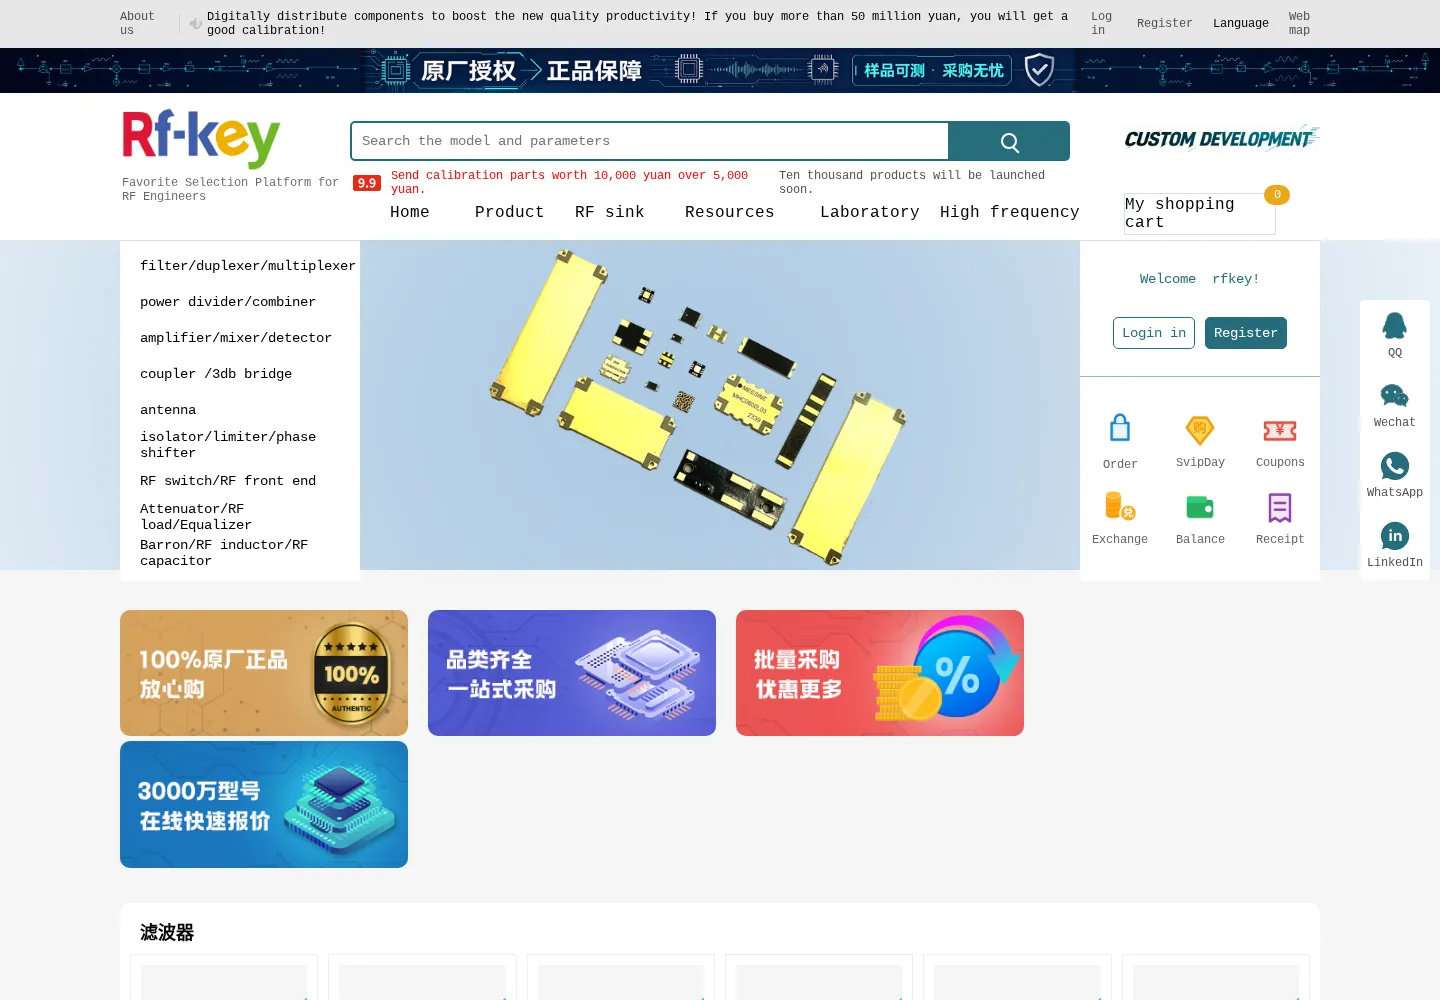
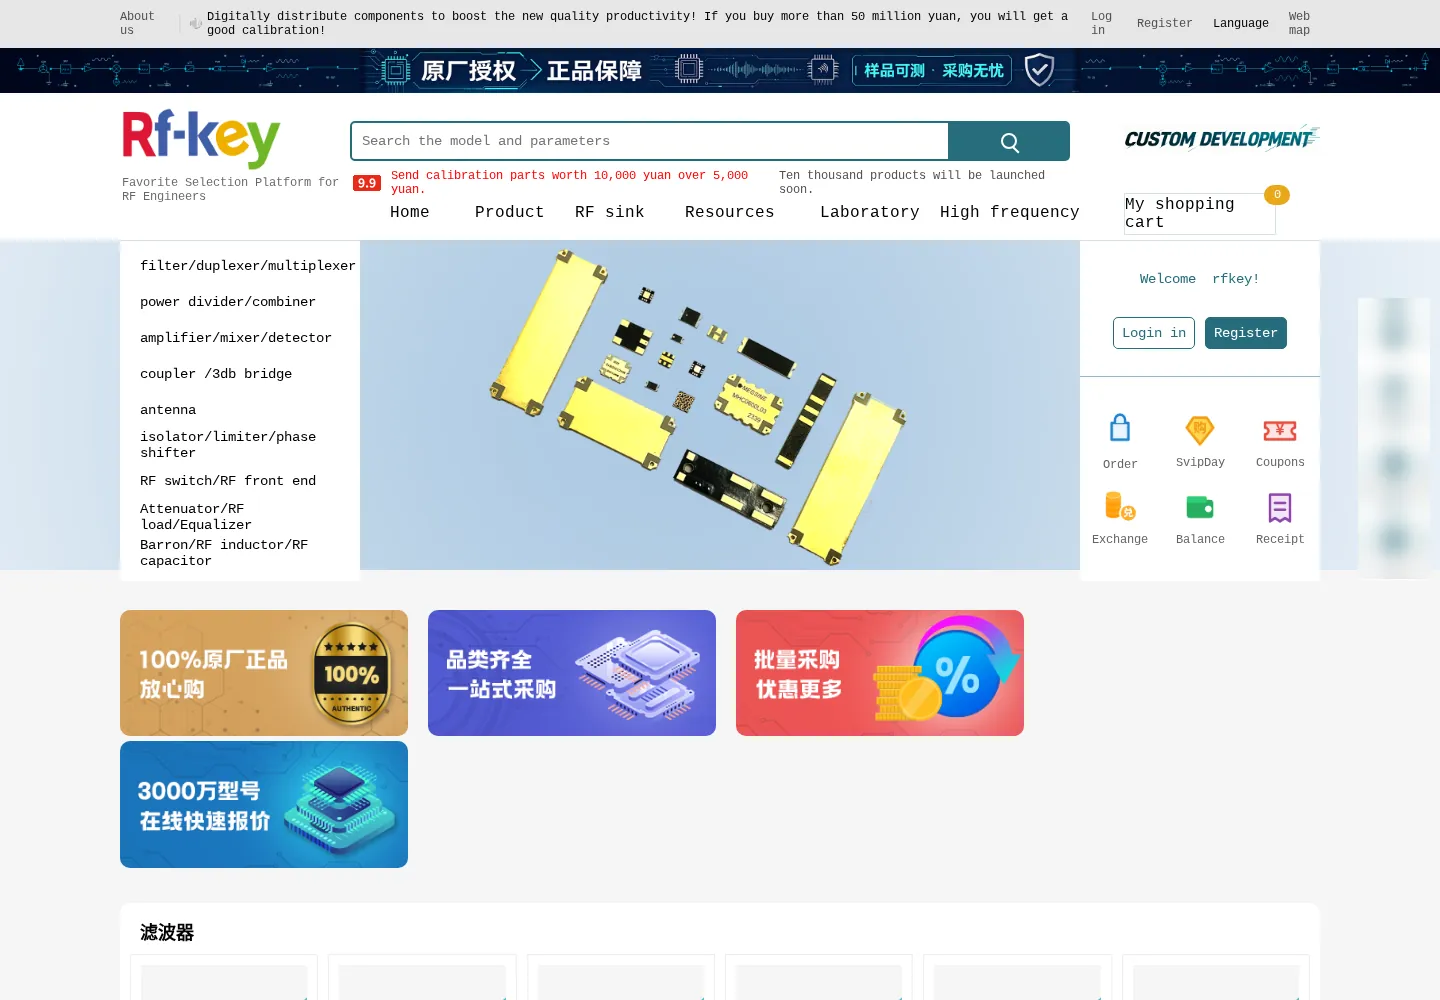
RFKEY case: add 实测结论与建议 (5 prioritized items, verified BWH plan refs), summary advice line; privacy redaction: mask origin IP, drop backend URLs/query params, SKU and POST target; pixelate prices/stock/views, login fields, customer-service contact widgets in all screenshots

Changed region(s): [[0.9375, 0.279, 1.0, 0.589]]

diff --git a/layouts/_partials/extend_head.html b/layouts/_partials/extend_head.html
@@ -393,3 +393,22 @@ sup.tbc,sup.tbc a{color:var(--info)!important}.tbc-note{color:var(--info)}
 .case-hl-img img{height:250px!important;width:100%;aspect-ratio:auto;object-fit:cover;object-position:top left}
 @media(max-width:720px){.post-content .case-facts{grid-template-columns:1fr}.case-hl-img img{height:180px!important}}
 </style>
+<style>
+/* ===== 实测建议 ===== */
+.adv{background:var(--theme);border:1px solid var(--warm-100);border-radius:14px;padding:16px 20px 6px;margin:0 0 14px;box-shadow:var(--card-sh)}
+.adv-head{display:flex;align-items:center;gap:12px;margin-bottom:8px}
+.post-content .adv-head h3{margin:0;font-size:17px;line-height:1.45;color:var(--ink);flex:1}
+.adv-n{flex:none;width:30px;height:30px;border-radius:9px;background:var(--brand);color:#fff;font-weight:800;display:flex;align-items:center;justify-content:center;font-size:15px}
+.adv-p{flex:none;font-size:12px;font-weight:700;padding:2px 10px;border-radius:999px;white-space:nowrap}
+.adv-high{border-left:4px solid var(--brand)}
+.adv-high .adv-p{background:var(--amber);color:#3D2600}
+.adv-mid .adv-p{background:rgba(245,166,35,.14);color:var(--amber-ink);border:1px solid rgba(245,166,35,.45)}
+.adv-info .adv-n{background:var(--info)}
+.adv-info .adv-p{background:rgba(47,93,124,.08);color:var(--info);border:1px solid rgba(47,93,124,.3)}
+.post-content .adv-body p,.post-content .adv-body li{font-size:15px;line-height:1.75;margin:0 0 10px}
+.post-content .adv-body ul{margin:0 0 10px}
+.adv-body .go-btn{display:inline-block;margin:0 0 12px}
+.case-adv b{background:var(--brand)!important;color:#fff!important}
+.case-adv a{color:var(--btn);white-space:nowrap}
+@media(max-width:720px){.adv{padding:14px 14px 4px}.adv-head{flex-wrap:wrap;gap:8px}.post-content .adv-head h3{flex-basis:calc(100% - 40px);font-size:16px}.adv-p{margin-left:38px}}
+</style>

diff --git a/layouts/_shortcodes/advice.html b/layouts/_shortcodes/advice.html
@@ -1,0 +1,6 @@
+{{- $p := .Get "prio" -}}
+{{- $lbl := dict "high" "优先级：高" "mid" "优先级：中" "info" "参考" -}}
+<div class="adv adv-{{ $p }}">
+  <div class="adv-head"><span class="adv-n">{{ .Get "n" }}</span><h3>{{ .Get "title" }}</h3><span class="adv-p">{{ index $lbl $p }}</span></div>
+  <div class="adv-body">{{ .Inner | .Page.RenderString (dict "display" "block") }}</div>
+</div>

diff --git a/layouts/_shortcodes/casesummary.html b/layouts/_shortcodes/casesummary.html
@@ -9,5 +9,6 @@
   </dl>
   <div class="case-metrics">{{ range .metrics }}<div><b>{{ .v }}</b><span>{{ .k }}</span></div>{{ end }}</div>
   <p class="case-verdict"><b>结论</b>{{ .verdict }}</p>
+  {{- with .advice }}<p class="case-verdict case-adv"><b>建议</b>{{ . }} <a href="#实测结论与建议">看详细建议 ↓</a></p>{{ end }}
 </div>
 {{- end -}}

diff --git a/content/cases/rfkey-overseas-check-2026-11.md b/content/cases/rfkey-overseas-check-2026-11.md
@@ -19,6 +19,7 @@ case:
   region: "洛杉矶 USCA_2（美国加州）"
   region_short: "洛杉矶 USCA_2"
   time: "2026-11-02 11:14:55–11:18:27（北京时间）"
+  advice: "先给首页轮播图和产品图“减重”（这是完整加载慢的主因，单靠升级服务器解决不了），再把 HTTP 统一 301 到 HTTPS、校对英文页；业务和访问量大时再考虑更高配置或大陆优化线路。"
   verdict: "5 个公开页面在本次美国加州测试点均可正常打开并显示实际内容；主要可优化项是首页冷加载的图片拖尾、英文页金额与图片文字、HTTP 未统一跳转 HTTPS。"
   metrics:
     - v: "15/15"
@@ -39,10 +40,10 @@ case:
 
 ## 体检发现与优化建议
 
-- **公开页面可从本次境外测试机访问，桌面和手机仿真均显示实际内容**：15 次 curl 请求全部状态 200、退出码 0、TLS 证书校验成功；25 次浏览器主文档状态均为 200。主测记录的 1,242 条浏览器响应均为 200，观测窗口内未记录网络失败、HTTP 错误、控制台错误或脚本异常。商品详情实际展示 MBF1221D33 及价格、库存和资料入口；登录页展示登录与验证组件。另有 1 次加载等待超时，已在下方单列，不能概括为零异常。
+- **公开页面可从本次境外测试机访问，桌面和手机仿真均显示实际内容**：15 次 curl 请求全部状态 200、退出码 0、TLS 证书校验成功；25 次浏览器主文档状态均为 200。主测记录的 1,242 条浏览器响应均为 200，观测窗口内未记录网络失败、HTTP 错误、控制台错误或脚本异常。商品详情页实际展示了型号、价格、库存和资料入口；登录页展示登录与验证组件。另有 1 次加载等待超时，已在下方单列，不能概括为零异常。
 - **优先优化首页冷加载：主要内容先出现，但完整资源加载存在明显拖尾**：中文首页桌面冷加载 LCP 候选中位数为 2.156 秒，范围 2.044–5.204 秒；load 事件中位数为 12.171 秒，范围 10.110–19.098 秒。第 3 次冷加载触发 15 秒 load 等待超时，随后采样已为 complete，loadEventEnd 为 19.098 秒。热加载 LCP 中位数为 1.004 秒，load 中位数为 1.289 秒；每次热加载记录到 70 条磁盘缓存响应。冷加载可计量资源传输体积约 14.374 MB，跨域缺少时序授权的资源可能未被完整计量。补测发现轮播图 3.png 约 1.865 MB、2.png 约 1.251 MB，图片是值得优先优化的具体目标；单次补测不能证明全部延迟均由图片体积造成。**建议**：先压缩和按展示尺寸提供轮播图、产品图，调整非首屏资源加载，再用相同境外测试机和相同样本复测。不要把 load 时间描述成用户在此之前完全看不到页面。
 - **英文页可以打开，但需要校对金额并补齐图片内文字**：英文首页存在英文导航和正文，确认语言切换有效。中文首页顶部促销门槛为 5,000 元，英文顶部出现“50 million yuan”，而同一英文页另一处仍写 5,000 元，金额明显不一致。英文页面截图中的宣传横幅、四张宣传卡片及部分分区标题仍为中文；本次已采样页面的 html language 属性为空。**建议**：由商家确认促销原意后修正金额，校对英文文案及图片内文字，并正确设置页面语言属性。当前结果不能代表全站翻译已完成。
-- **HTTP 入口仍停留在 HTTP，需要统一跳转 HTTPS**：补充检查中，https://www.rfkey.cn/ 返回 302 并跳转 HTTPS 的 main.php，证书验证成功；http://www.rfkey.cn/ 跟随 1 次 302 后最终仍为 http://www.rfkey.cn/main.php，返回 200。当前只能确认所测 HTTP 入口没有强制升级 HTTPS，未执行账号登录或密码提交。**建议**：在源站或接入层配置 HTTP 到 HTTPS 的301 重定向，并检查站内链接、静态资源和登录入口。
+- **HTTP 入口仍停留在 HTTP，需要统一跳转 HTTPS**：补充检查中，HTTPS 首页返回 302 并跳转到 HTTPS 页面，证书验证成功；HTTP 首页跟随 1 次 302 后最终仍停留在 HTTP 页面，返回 200。当前只能确认所测 HTTP 入口没有强制升级 HTTPS，未执行账号登录或密码提交。**建议**：在源站或接入层配置 HTTP 到 HTTPS 的301 重定向，并检查站内链接、静态资源和登录入口。
 - **图片补查未发现真实地址加载失败，空地址元素不应误报为坏图**：对中文首页、分类页、详情页、英文首页分别进行滚动补查，均到达页面底部；有实际地址的图片加载失败数和待完成数均为 0。四页分别存在 17、45、7、17 个没有实际 src/currentSrc 的图片元素，滚动前后未变。这些空地址元素并未形成失败的图片网络请求；是否属于占位、装饰或缺失内容，需要结合源站模板逐项判断。原始主测中的 images.broken 包含这些元素，报告保留原始数据并以专项诊断纠正判读。
 
 ## 测试时间与测试点
@@ -77,10 +78,10 @@ case:
 
 | 页面 | 地址 | curl 次数 | 浏览器次数 |
 | --- | --- | --- | --- |
-| 中文首页 | www.rfkey.cn/main.php?language=chinese | 3 | 7 |
-| 商品分类1 | 分类页 index=1（中文） | 3 | 7 |
-| 商品详情175 | 商品详情 index=175（中文） | 3 | 7 |
-| 英文首页 | www.rfkey.cn/main.php?language=english | 3 | 2 |
+| 中文首页 | 网站首页（中文） | 3 | 7 |
+| 商品分类页 | 一个商品分类列表页（中文） | 3 | 7 |
+| 商品详情页 | 一个商品详情页（中文） | 3 | 7 |
+| 英文首页 | 网站首页（英文） | 3 | 2 |
 | 登录入口展示 | 用户登录页（中文） | 3 | 2 |
 
 ## HTML 传输结果
@@ -89,11 +90,11 @@ case:
 
 | 页面 | 样本 | HTTP 状态 | 首字节 | 下载完成 | 源站 IP | TLS 校验值 |
 | --- | --- | --- | --- | --- | --- | --- |
-| 中文首页 | 3 | 200 × 3 | 0.661（0.638–0.742） | 0.991（0.951–1.107） | 114.116.235.17 | 0 × 3 |
-| 商品分类1 | 3 | 200 × 3 | 0.732（0.654–0.735） | 1.146（1.135–1.280） | 114.116.235.17 | 0 × 3 |
-| 商品详情175 | 3 | 200 × 3 | 0.673（0.668–0.741） | 1.041（0.997–1.104） | 114.116.235.17 | 0 × 3 |
-| 英文首页 | 3 | 200 × 3 | 0.742（0.636–0.745） | 1.111（0.948–1.140） | 114.116.235.17 | 0 × 3 |
-| 登录入口展示 | 3 | 200 × 3 | 0.661（0.656–0.665） | 0.827（0.818–0.831） | 114.116.235.17 | 0 × 3 |
+| 中文首页 | 3 | 200 × 3 | 0.661（0.638–0.742） | 0.991（0.951–1.107） | 114.116.x.x | 0 × 3 |
+| 商品分类页 | 3 | 200 × 3 | 0.732（0.654–0.735） | 1.146（1.135–1.280） | 114.116.x.x | 0 × 3 |
+| 商品详情页 | 3 | 200 × 3 | 0.673（0.668–0.741） | 1.041（0.997–1.104） | 114.116.x.x | 0 × 3 |
+| 英文首页 | 3 | 200 × 3 | 0.742（0.636–0.745） | 1.111（0.948–1.140） | 114.116.x.x | 0 × 3 |
+| 登录入口展示 | 3 | 200 × 3 | 0.661（0.656–0.665） | 0.827（0.818–0.831） | 114.116.x.x | 0 × 3 |
 
 ## 传输分阶段中位数
 
@@ -102,8 +103,8 @@ case:
 | 页面 | DNS | TCP 建连 | TLS 握手 | TLS 后至首字节 | 首字节后下载 |
 | --- | --- | --- | --- | --- | --- |
 | 中文首页 | 0.002 | 0.165 | 0.172 | 0.322 | 0.329 |
-| 商品分类1 | 0.002 | 0.180 | 0.188 | 0.362 | 0.481 |
-| 商品详情175 | 0.002 | 0.167 | 0.181 | 0.330 | 0.363 |
+| 商品分类页 | 0.002 | 0.180 | 0.188 | 0.362 | 0.481 |
+| 商品详情页 | 0.002 | 0.167 | 0.181 | 0.330 | 0.363 |
 | 英文首页 | 0.002 | 0.183 | 0.190 | 0.367 | 0.369 |
 | 登录入口展示 | 0.002 | 0.161 | 0.172 | 0.323 | 0.163 |
 
@@ -115,17 +116,17 @@ case:
 | --- | --- | --- | --- | --- | --- | --- | --- | --- |
 | 中文首页 | 桌面 / 冷加载 | 3 | 200 × 3 | 0.69 | 1.00 | 2.16 | 1.86 | 12.17 |
 | 中文首页 | 桌面 / 热加载 | 3 | 200 × 3 | 0.36 | 0.62 | 1.00 | 0.85 | 1.29 |
-| 商品分类1 | 桌面 / 冷加载 | 3 | 200 × 3 | 0.66 | 0.89 | 1.54 | 1.96 | 4.21 |
-| 商品分类1 | 桌面 / 热加载 | 3 | 200 × 3 | 0.38 | 0.63 | 0.63 | 0.76 | 1.15 |
-| 商品详情175 | 桌面 / 冷加载 | 3 | 200 × 3 | 0.74 | 1.04 | 1.96 | 1.79 | 3.08 |
-| 商品详情175 | 桌面 / 热加载 | 3 | 200 × 3 | 0.41 | 0.73 | 0.94 | 0.76 | 1.16 |
+| 商品分类页 | 桌面 / 冷加载 | 3 | 200 × 3 | 0.66 | 0.89 | 1.54 | 1.96 | 4.21 |
+| 商品分类页 | 桌面 / 热加载 | 3 | 200 × 3 | 0.38 | 0.63 | 0.63 | 0.76 | 1.15 |
+| 商品详情页 | 桌面 / 冷加载 | 3 | 200 × 3 | 0.74 | 1.04 | 1.96 | 1.79 | 3.08 |
+| 商品详情页 | 桌面 / 热加载 | 3 | 200 × 3 | 0.41 | 0.73 | 0.94 | 0.76 | 1.16 |
 | 英文首页 | 桌面 / 冷加载 | 1 | 200 × 1 | 0.64 | 0.86 | 1.70 | 1.57 | 12.36 |
 | 英文首页 | 桌面 / 热加载 | 1 | 200 × 1 | 0.35 | 0.75 | 0.93 | 0.79 | 1.17 |
 | 登录入口展示 | 桌面 / 冷加载 | 1 | 200 × 1 | 0.66 | 1.48 | 4.66 | 1.46 | 4.47 |
 | 登录入口展示 | 桌面 / 热加载 | 1 | 200 × 1 | 0.33 | 0.90 | 1.13 | 0.88 | 1.15 |
 | 中文首页 | 手机仿真 / 冷加载 | 1 | 200 × 1 | 0.75 | 1.73 | 2.36 | 1.90 | 10.73 |
-| 商品分类1 | 手机仿真 / 冷加载 | 1 | 200 × 1 | 0.61 | 1.71 | 1.88 | 1.70 | 3.03 |
-| 商品详情175 | 手机仿真 / 冷加载 | 1 | 200 × 1 | 0.60 | 1.66 | 2.04 | 1.70 | 2.49 |
+| 商品分类页 | 手机仿真 / 冷加载 | 1 | 200 × 1 | 0.61 | 1.71 | 1.88 | 1.70 | 3.03 |
+| 商品详情页 | 手机仿真 / 冷加载 | 1 | 200 × 1 | 0.60 | 1.66 | 2.04 | 1.70 | 2.49 |
 
 ## 资源与显示完整性
 
@@ -135,17 +136,17 @@ case:
 | --- | --- | --- | --- | --- | --- | --- | --- | --- |
 | 中文首页 | 桌面 / 冷加载 | 17 | 0 | 0 | 0 | 0 | 0 | 0.0815 |
 | 中文首页 | 桌面 / 热加载 | 17 | 0 | 0 | 0 | 0 | 70 | 0.0582 |
-| 商品分类1 | 桌面 / 冷加载 | 45 | 0 | 0 | 0 | 0 | 0 | 0.0007 |
-| 商品分类1 | 桌面 / 热加载 | 45 | 0 | 0 | 0 | 0 | 34 | 0.0002 |
-| 商品详情175 | 桌面 / 冷加载 | 7 | 0 | 0 | 0 | 0 | 0 | 0.0046 |
-| 商品详情175 | 桌面 / 热加载 | 7 | 0 | 0 | 0 | 0 | 25 | 0.0042 |
+| 商品分类页 | 桌面 / 冷加载 | 45 | 0 | 0 | 0 | 0 | 0 | 0.0007 |
+| 商品分类页 | 桌面 / 热加载 | 45 | 0 | 0 | 0 | 0 | 34 | 0.0002 |
+| 商品详情页 | 桌面 / 冷加载 | 7 | 0 | 0 | 0 | 0 | 0 | 0.0046 |
+| 商品详情页 | 桌面 / 热加载 | 7 | 0 | 0 | 0 | 0 | 25 | 0.0042 |
 | 英文首页 | 桌面 / 冷加载 | 17 | 0 | 0 | 0 | 0 | 0 | 0.0466 |
 | 英文首页 | 桌面 / 热加载 | 17 | 0 | 0 | 0 | 0 | 70 | 0.0565 |
 | 登录入口展示 | 桌面 / 冷加载 | 1 | 0 | 0 | 0 | 0 | 0 | 0.0135 |
 | 登录入口展示 | 桌面 / 热加载 | 1 | 0 | 0 | 0 | 0 | 13 | 0.0000 |
 | 中文首页 | 手机仿真 / 冷加载 | 12 | 0 | 0 | 0 | 0 | 0 | 0.1335 |
-| 商品分类1 | 手机仿真 / 冷加载 | 2 | 0 | 0 | 0 | 0 | 0 | 0.0000 |
-| 商品详情175 | 手机仿真 / 冷加载 | 0 | 0 | 0 | 0 | 0 | 0 | 0.0000 |
+| 商品分类页 | 手机仿真 / 冷加载 | 2 | 0 | 0 | 0 | 0 | 0 | 0.0000 |
+| 商品详情页 | 手机仿真 / 冷加载 | 0 | 0 | 0 | 0 | 0 | 0 | 0.0000 |
 
 HTTP 错误共 0 次事件，网络失败共 0 次事件，脚本异常与控制台错误均未记录。
 
@@ -159,7 +160,7 @@ HTTP 错误共 0 次事件，网络失败共 0 次事件，脚本异常与控制
 
 ## 原站脚本自动请求
 
-浏览器导航过程中共记录 8 次非 GET / HEAD / OPTIONS 请求（POST，目标 www.rfkey.cn）。测试没有点击按钮、填写表单、登录或购买；原站脚本在正常加载时仍可自行发出请求。没有保存请求体，不能将此次浏览描述为“全部请求均为 GET”。
+浏览器导航过程中共记录 8 次非 GET / HEAD / OPTIONS 请求（均为 POST）。测试没有点击按钮、填写表单、登录或购买；原站脚本在正常加载时仍可自行发出请求。没有保存请求体，不能将此次浏览描述为“全部请求均为 GET”。
 
 ## 首页体积较大的五项资源
 
@@ -167,11 +168,11 @@ HTTP 错误共 0 次事件，网络失败共 0 次事件，脚本异常与控制
 
 | 排序 | 资源 | 正文体积（MB） | 资源时长（秒） |
 | --- | --- | --- | --- |
-| 1 | 首页轮播图 banner/3.png | 1.865 | 4.688 |
-| 2 | 首页轮播图 banner/2.png | 1.251 | 1.542 |
-| 3 | 首页轮播图 banner/4.png | 0.743 | 4.700 |
-| 4 | 首页轮播图 banner/1.png | 0.663 | 1.012 |
-| 5 | 首页轮播图 banner/5.png | 0.434 | 4.701 |
+| 1 | 首页轮播图 3.png | 1.865 | 4.688 |
+| 2 | 首页轮播图 2.png | 1.251 | 1.542 |
+| 3 | 首页轮播图 4.png | 0.743 | 4.700 |
+| 4 | 首页轮播图 1.png | 0.663 | 1.012 |
+| 5 | 首页轮播图 5.png | 0.434 | 4.701 |
 
 ## 图片专项复核
 
@@ -181,10 +182,10 @@ HTTP 错误共 0 次事件，网络失败共 0 次事件，脚本异常与控制
 | --- | --- | --- | --- | --- | --- | --- | --- |
 | 中文首页 | 滚动前 | 17 | 0 | 0 | 0 | 54 | 尚未滚动 |
 | 中文首页 | 滚动后 | 17 | 0 | 0 | 0 | 54 | 是 |
-| 商品分类1 | 滚动前 | 45 | 0 | 0 | 0 | 27 | 尚未滚动 |
-| 商品分类1 | 滚动后 | 45 | 0 | 0 | 0 | 27 | 是 |
-| 商品详情175 | 滚动前 | 7 | 0 | 0 | 0 | 18 | 尚未滚动 |
-| 商品详情175 | 滚动后 | 7 | 0 | 0 | 0 | 18 | 是 |
+| 商品分类页 | 滚动前 | 45 | 0 | 0 | 0 | 27 | 尚未滚动 |
+| 商品分类页 | 滚动后 | 45 | 0 | 0 | 0 | 27 | 是 |
+| 商品详情页 | 滚动前 | 7 | 0 | 0 | 0 | 18 | 尚未滚动 |
+| 商品详情页 | 滚动后 | 7 | 0 | 0 | 0 | 18 | 是 |
 | 英文首页 | 滚动前 | 17 | 0 | 0 | 0 | 54 | 尚未滚动 |
 | 英文首页 | 滚动后 | 17 | 0 | 0 | 0 | 54 | 是 |
 
@@ -194,9 +195,9 @@ HTTP 错误共 0 次事件，网络失败共 0 次事件，脚本异常与控制
 
 {{< shot src="/img/cases/rfkey-2026-11/home-zh-desktop.webp" alt="RFKEY 中文首页 桌面冷加载 境外实测截图" w="1440" h="1000" cap="中文首页 · 桌面 / 冷加载（美国加州 VPS，2026-11-02）" >}}
 
-{{< shot src="/img/cases/rfkey-2026-11/category-desktop.webp" alt="RFKEY 商品分类页 桌面冷加载 境外实测截图" w="1440" h="1000" cap="商品分类1 · 桌面 / 冷加载" >}}
+{{< shot src="/img/cases/rfkey-2026-11/category-desktop.webp" alt="RFKEY 商品分类页 桌面冷加载 境外实测截图" w="1440" h="1000" cap="商品分类页 · 桌面 / 冷加载" >}}
 
-{{< shot src="/img/cases/rfkey-2026-11/product-desktop.webp" alt="RFKEY 商品详情页 桌面冷加载 境外实测截图" w="1440" h="1000" cap="商品详情175 · 桌面 / 冷加载" >}}
+{{< shot src="/img/cases/rfkey-2026-11/product-desktop.webp" alt="RFKEY 商品详情页 桌面冷加载 境外实测截图" w="1440" h="1000" cap="商品详情页 · 桌面 / 冷加载" >}}
 
 {{< shot src="/img/cases/rfkey-2026-11/home-en-desktop.webp" alt="RFKEY 英文首页 桌面冷加载 境外实测截图" w="1440" h="1000" cap="英文首页 · 桌面 / 冷加载" >}}
 
@@ -204,9 +205,9 @@ HTTP 错误共 0 次事件，网络失败共 0 次事件，脚本异常与控制
 
 {{< shot src="/img/cases/rfkey-2026-11/home-zh-mobile.webp" alt="RFKEY 中文首页 手机仿真 境外实测截图" w="585" h="996" cap="中文首页 · 手机仿真 / 冷加载" >}}
 
-{{< shot src="/img/cases/rfkey-2026-11/category-mobile.webp" alt="RFKEY 商品分类页 手机仿真 境外实测截图" w="585" h="996" cap="商品分类1 · 手机仿真 / 冷加载" >}}
+{{< shot src="/img/cases/rfkey-2026-11/category-mobile.webp" alt="RFKEY 商品分类页 手机仿真 境外实测截图" w="585" h="996" cap="商品分类页 · 手机仿真 / 冷加载" >}}
 
-{{< shot src="/img/cases/rfkey-2026-11/product-mobile.webp" alt="RFKEY 商品详情页 手机仿真 境外实测截图" w="585" h="996" cap="商品详情175 · 手机仿真 / 冷加载" >}}
+{{< shot src="/img/cases/rfkey-2026-11/product-mobile.webp" alt="RFKEY 商品详情页 手机仿真 境外实测截图" w="585" h="996" cap="商品详情页 · 手机仿真 / 冷加载" >}}
 
 ## 方法与局限
 
@@ -219,6 +220,47 @@ HTTP 错误共 0 次事件，网络失败共 0 次事件，脚本异常与控制
 7. HTTP 2xx/3xx 仅说明导航或传输返回成功；内容正确性、失败资源、脚本异常及完整交易流程需分别评估。
 8. 测试工具放在独立临时目录，没有修改商家源站程序、DNS、账户或订单。报告与原始数据不含登录密码、Cookie 存储或请求体。
 9. 若要给商家出具正式出海验收结论，还需根据目标市场增加测试点，并使用商家测试账号或支付沙箱验证业务流程。本报告未覆盖这些项目。
+
+## 实测结论与建议
+
+{{< advice n="1" prio="high" title="首页图片过大，完整加载中位约 12 秒" >}}
+**问题**：中文首页桌面冷加载 load 中位数 12.171 秒（范围 10.110–19.098 秒），但主要内容 LCP 中位 2.156 秒就已出现，说明拖慢的是后续资源。冷加载可计量资源约 14.374 MB，其中轮播图 3.png 约 1.865 MB、2.png 约 1.251 MB。
+
+**做法**：轮播图和产品图转 WebP/AVIF，按实际显示尺寸输出；非首屏图片懒加载；静态资源开启浏览器缓存和压缩；有条件可再用 CDN 分发图片等静态资源。
+
+**说明**：瓶颈在资源体积，单纯升级服务器配置解决不了这一项，所以建议先做这一项。具体能快多少，以优化后的复测数据为准。
+{{< /advice >}}
+
+{{< advice n="2" prio="high" title="HTTP 入口没有跳转到 HTTPS" >}}
+**问题**：所测 HTTP 首页最终仍停留在 HTTP 页面。
+
+**做法**：在源站或接入层配置 HTTP → HTTPS 的 301 跳转，并检查站内链接、静态资源和登录入口都使用 HTTPS。
+{{< /advice >}}
+
+{{< advice n="3" prio="mid" title="英文页金额与图片文字需要校对" >}}
+**问题**：英文页顶部促销金额与中文页、同页另一处不一致；宣传横幅和卡片图片里仍是中文；页面 html lang 属性为空。
+
+**做法**：确认促销原意后修正英文金额，补做英文版宣传图，并给中英文页面分别设置正确的 lang 属性。
+{{< /advice >}}
+
+{{< advice n="4" prio="info" title="服务器配置：什么时候需要升级" >}}
+**本次结论**：这台 $19.99/月 4核4G 测试机，用来做公开页面的访问体检是够用的，测试结束后系统负载约 0.15/0.27/0.18。
+
+**可以考虑升级的信号**：CPU 或内存长期处于高占用；月流量接近方案的 3TB 上限；业务主要面向中国大陆客户、大陆访问明显偏慢。
+
+**参考方案**（价格为搬瓦工官网产品目录 2026-11-01 核对价，以结算页为准）：
+- 同线路更高配置：5核 / 8G / 160G / 4TB，$39.99/月 · $399.99/年
+- 面向大陆访客的 CN2 GIA-E：3核 / 2G / 40G / 2TB $89.99/季起；4核 / 4G / 80G / 3TB $56.99/月；6核 / 8G / 160G / 5TB $86.99/月
+- 亚洲低延迟：大阪 / 新加坡 CN2 GIA 2核 / 2G / 40G，$49.99/月起
+
+完整方案对比见 [搬瓦工 2026 最新优惠码与方案对比](/deals/bandwagonhost-coupon-2026/)。
+{{< /advice >}}
+
+{{< go "bandwagonhost" "查看 CN2 GIA-E 方案 →" >}}
+
+{{< advice n="5" prio="info" title="优化后复测" >}}
+按上面几项调整后，我们会用同一台测试机、同样的页面样本和测试方法复测，结果更新在本页。
+{{< /advice >}}
 
 ## 同款测试机器
 
